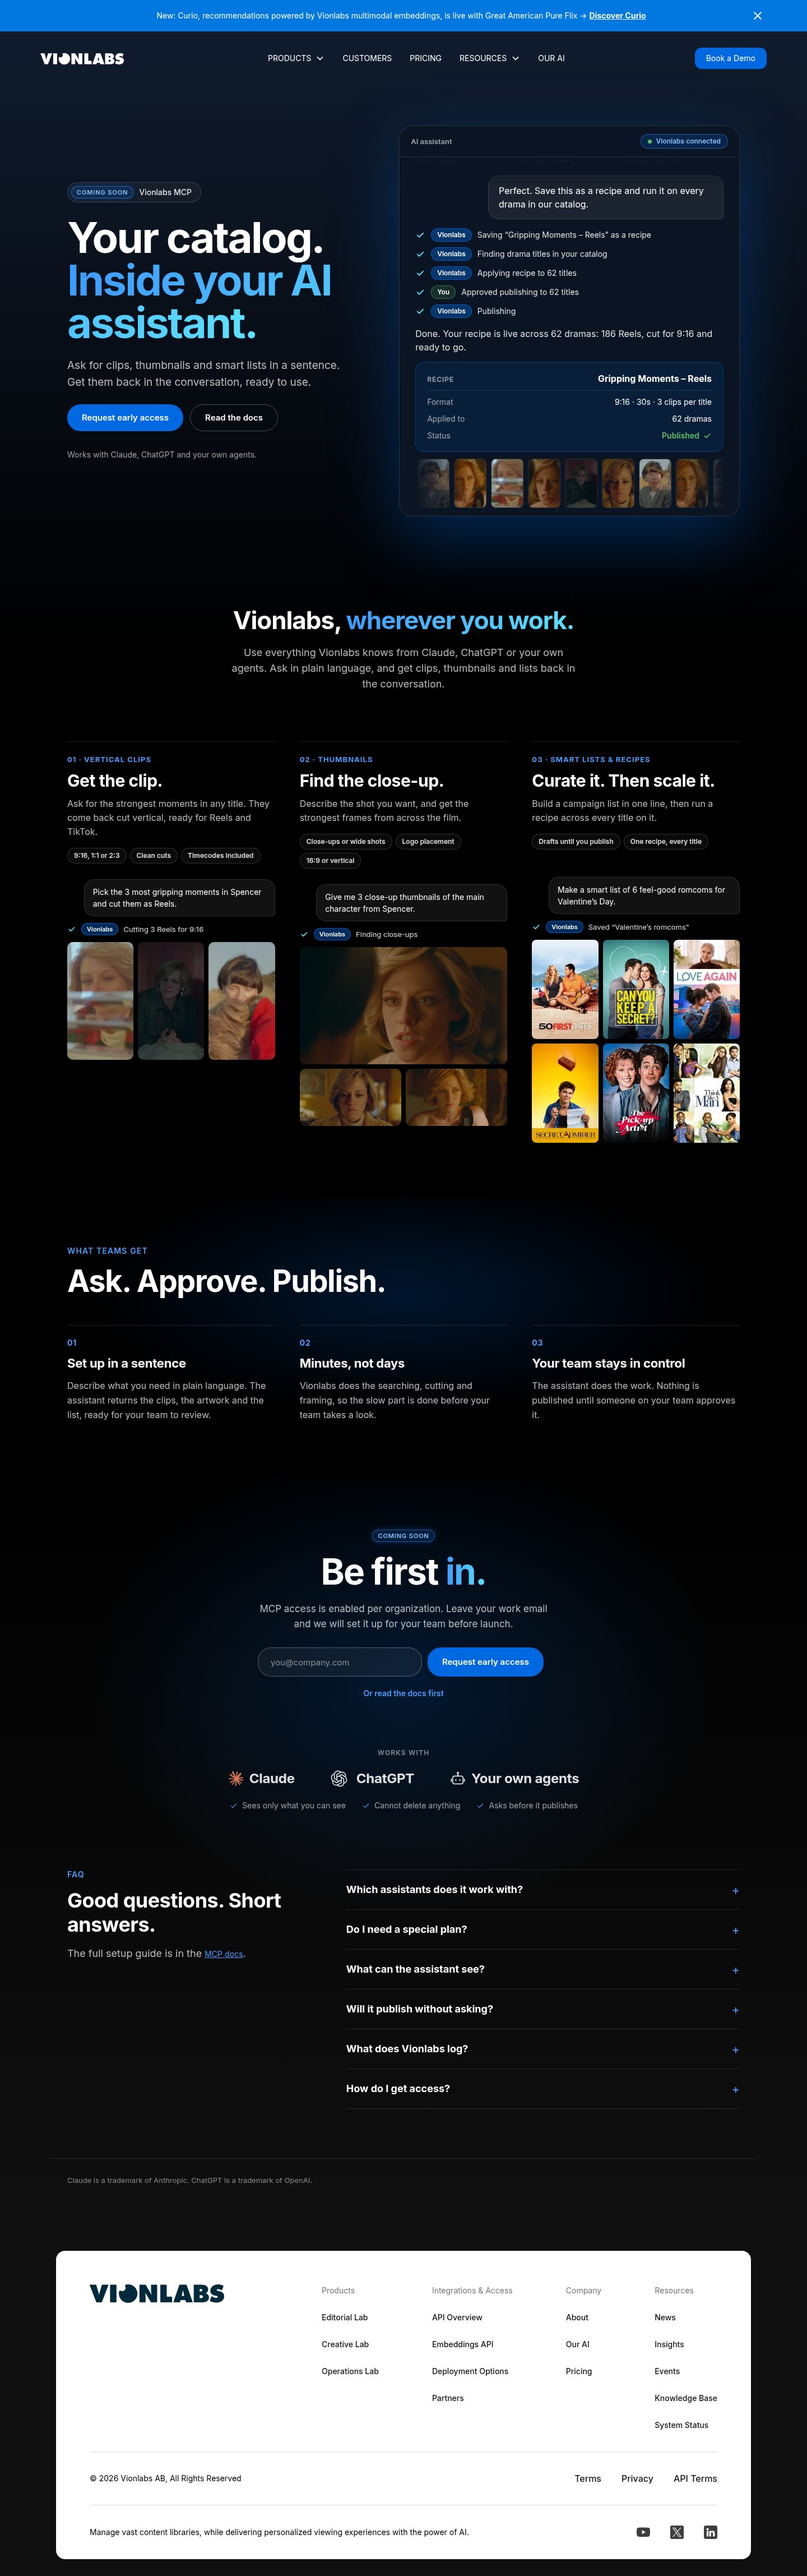
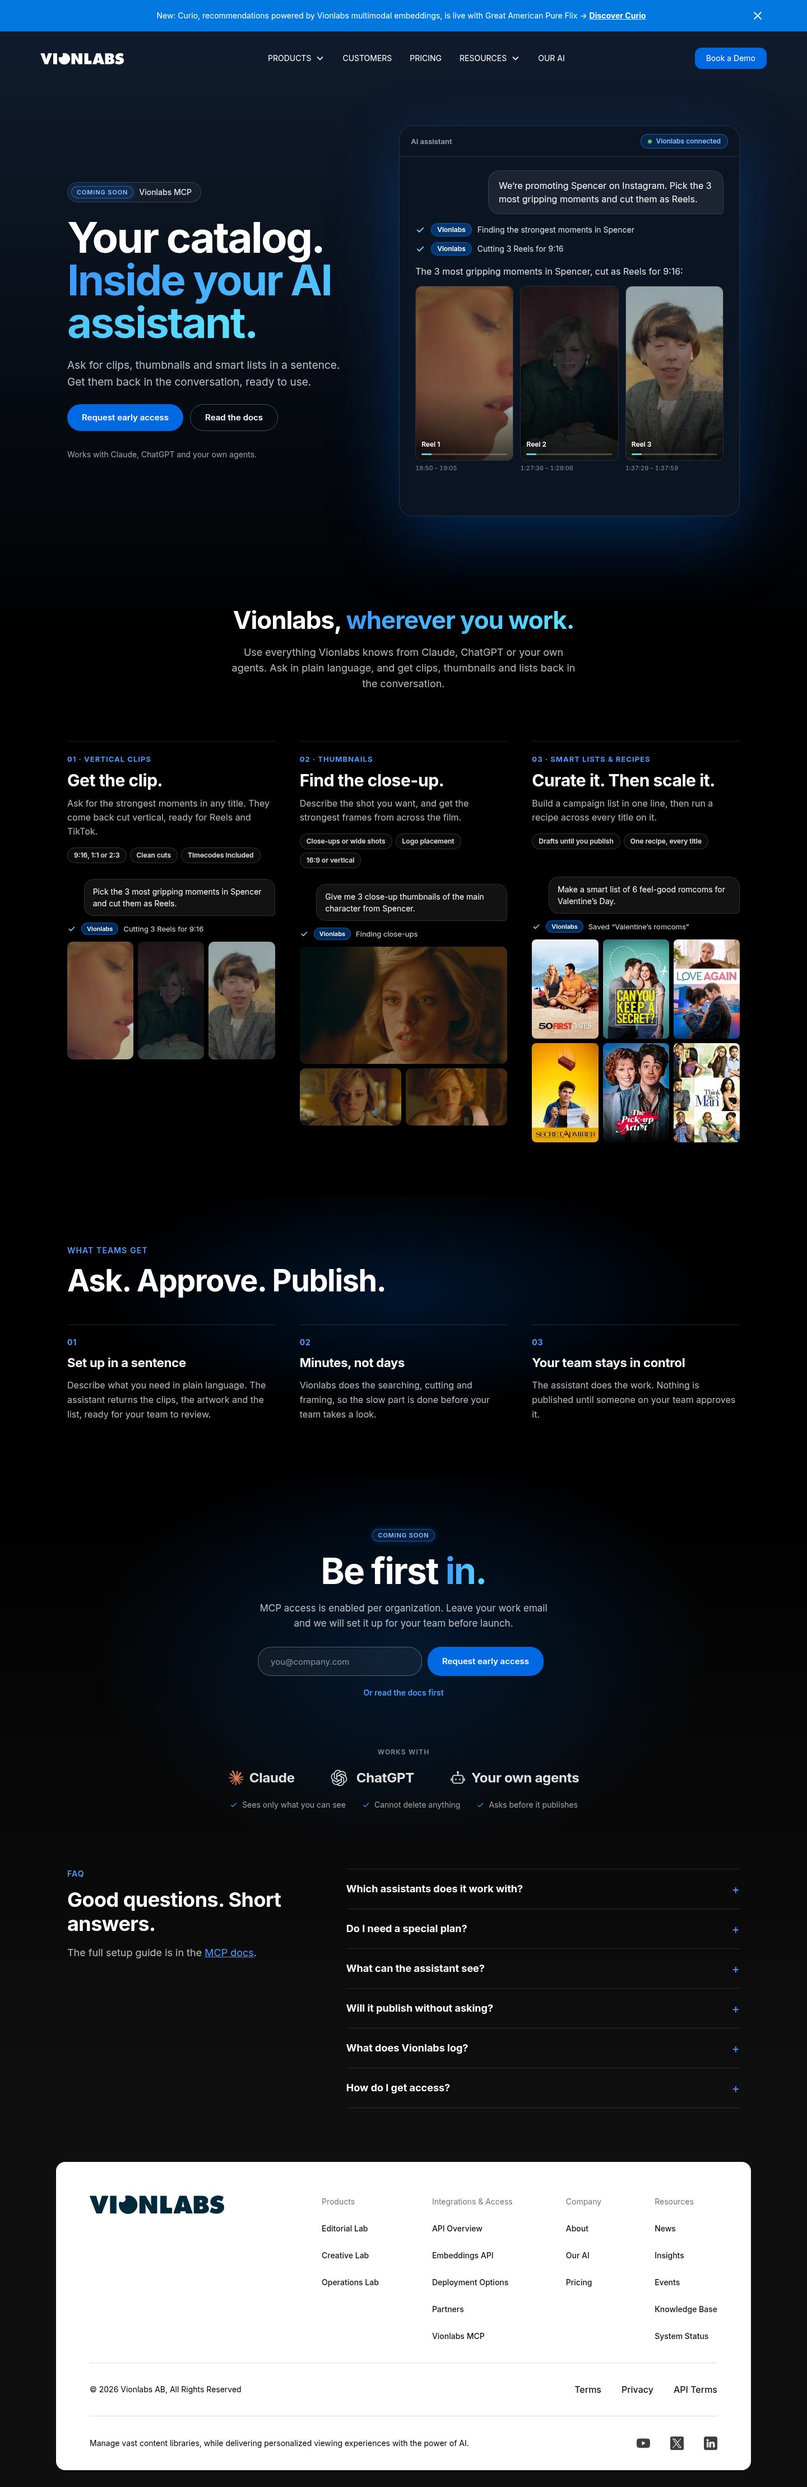
Remove MCP trademark line, tighten footer gap; refresh preview
Claude-Session: https://claude.ai/code/session_01GHTiyy8QvdLJJFHnK5p9ot

diff --git a/notes/webflow-next-steps.md b/notes/webflow-next-steps.md
@@ -71,3 +71,6 @@ Blockers, Marcus to decide:
 Nice to have:
 - Keep the "Coming soon" wording (Marcus confirmed).
 - One test sign-up after launch.
+- 9 Nov: removed the trademark line from the bottom of /mcp at Marcus's request.
+  - The gap above the footer is set to 96px (72px on mobile).
+  - This uses a page-only embed at the end of #early-access, so the shared footer is unchanged on other pages.
